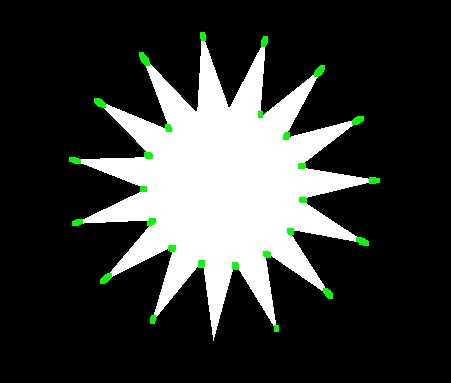
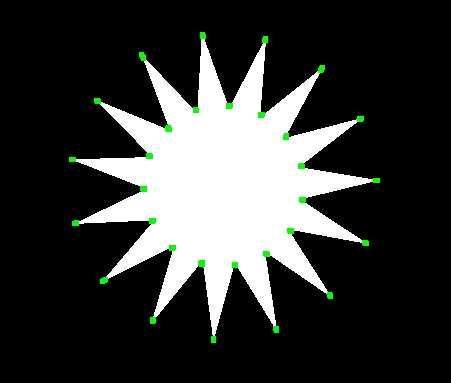
FAST detection working. Still taking ~3 seconds

diff --git a/photogrammetry/image_processing/keypoint_detection.py b/photogrammetry/image_processing/keypoint_detection.py
@@ -27,7 +27,7 @@ BRESENHAM_CIRCLE_3 = np.array([
 ])
 
 
-def fast_detection(image: Mat, threshold: float = 0.2):
+def fast_detection(image: Mat, threshold: int = 10):
     img_height, img_width, _ = image.shape
 
     # TODO determine if BGR is correct color mapping.
@@ -40,9 +40,16 @@ def fast_detection(image: Mat, threshold: float = 0.2):
         for y in range(0, img_width):
             # x and y are coords of p
 
-            # Known key point
-            # x = 50
-            # y = 174
+            # x = 10
+            # y = 10
+
+            # Known key point top
+            # x = 35
+            # y = 202
+
+            # Known bottom key point
+            # x = 340
+            # y = 213
 
             # intensity at p
             ip = bw_img[x, y]
@@ -58,43 +65,54 @@ def fast_detection(image: Mat, threshold: float = 0.2):
                 else:
                     circle_intensity.append(bw_img[u, v])
             
-            # quick_test
-            quick_test_outside_thresh = 0
-            for circle_idx in [0, 4, 8, 12]:    # TODO make dynamic if making circle dynamic
-                if in_threshold(ip, circle_intensity[circle_idx], threshold):
-                    continue
-                quick_test_outside_thresh += 1
-            
-            if quick_test_outside_thresh < 3:
-                # point rejected, not a corner
-                continue
-
-            # TODO this is a super naive way to solve this. Just used for testing.
-            is_on_run = False
-            tests = 0
-            consecutive_outside_thresh = 0
-            total_in_thresh = 0
-            idx = 0
-            while tests < 32:
-                if tests >= 16 and not is_on_run:
-                    # We've seen everything, aren't on a run so we must be done.
-                    break
-                tests += 1
-                intensity = circle_intensity[idx]
-                if in_threshold(ip, intensity, threshold):
-                    consecutive_outside_thresh = 0
-                    is_on_run = False
-                    total_in_thresh += 1
-                    continue
-                else:
-                    is_on_run = True
-                    consecutive_outside_thresh += 1
-                if consecutive_outside_thresh >= 12:
-                    break
-            if consecutive_outside_thresh >= 12:
+            if is_keypoint(ip, circle_intensity, threshold):
                 keypoints.append([x, y])
     return keypoints
 
-def in_threshold(principal_intensity, test_intensity, threshold: float):
+def in_threshold(principal_intensity, test_intensity, threshold: int):
+    return (test_intensity > (principal_intensity - threshold)) and (test_intensity < (principal_intensity + threshold))
+
+def in_threshold_percentage(principal_intensity, test_intensity, threshold: float):
     thresh = principal_intensity * threshold
-    return (principal_intensity - thresh) <= test_intensity <= (principal_intensity + thresh)
+    return (test_intensity > (principal_intensity - thresh)) and (test_intensity < (principal_intensity + thresh))
+
+def is_keypoint(point_intensity: int, intensity_ring: list[int], threshold: int) -> bool:
+    # Quick test to see if it's possible.
+    quick_test_outside_thresh = 0
+    for circle_idx in [0, 4, 8, 12]:    # TODO make dynamic if making circle dynamic
+        if in_threshold(point_intensity, intensity_ring[circle_idx], threshold):
+            continue
+        quick_test_outside_thresh += 1
+
+    if quick_test_outside_thresh < 3:
+        # point rejected, not a corner
+        return False
+
+    # TODO this is a super naive way to solve this. Just used for testing.
+    is_on_run = False
+    tests = 0
+    consecutive_outside_thresh = 0
+    total_in_thresh = 0
+    idx = -1
+    while tests < 32:
+        idx += 1
+        if idx == 16:
+            idx = 0
+        if tests >= 16 and not is_on_run:
+            # We've seen everything, aren't on a run so we must be done.
+            break
+        tests += 1
+        intensity = intensity_ring[idx]
+        if in_threshold(point_intensity, intensity, threshold):
+            consecutive_outside_thresh = 0
+            is_on_run = False
+            total_in_thresh += 1
+            continue
+        else:
+            is_on_run = True
+            consecutive_outside_thresh += 1
+        if consecutive_outside_thresh >= 12:
+            return True
+    if consecutive_outside_thresh >= 12:
+        return True
+    return False

diff --git a/scripts/detect_features.py b/scripts/detect_features.py
@@ -1,6 +1,6 @@
 from argparse import ArgumentParser
 from cv2 import imread, Mat, imwrite
-from photogrammetry.image_processing.keypoint_detection import fast_detection
+from photogrammetry.image_processing.keypoint_detection import fast_detection, in_threshold
 
 def setup_and_parse_args():
     parser = ArgumentParser(
@@ -13,10 +13,14 @@ def setup_and_parse_args():
 def run_fast_detection(image: Mat):
     keypoints = fast_detection(image)
 
+    height, width, _ = image.shape
+
     for x, y in keypoints:
         # TODO need to clamp this inside of frame
         for u in range(x-2, x+3):
             for v in range(y-2, y+3):
+                if u >= height or u < 0 or v >= width or v < 0:
+                    continue
                 image[u, v] = [0, 255, 0]
     # TODO pass as arg
     imwrite('./data/feature_detection_test/fast_detected.jpg', image)
